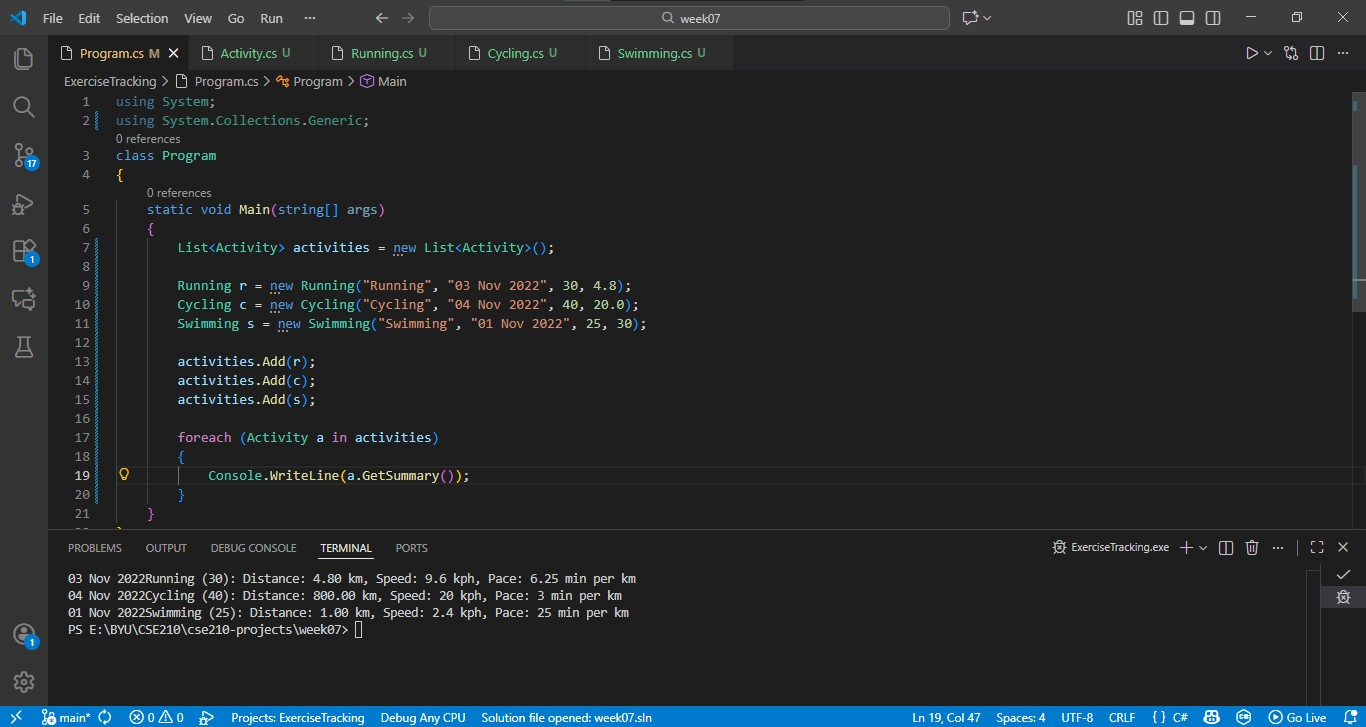
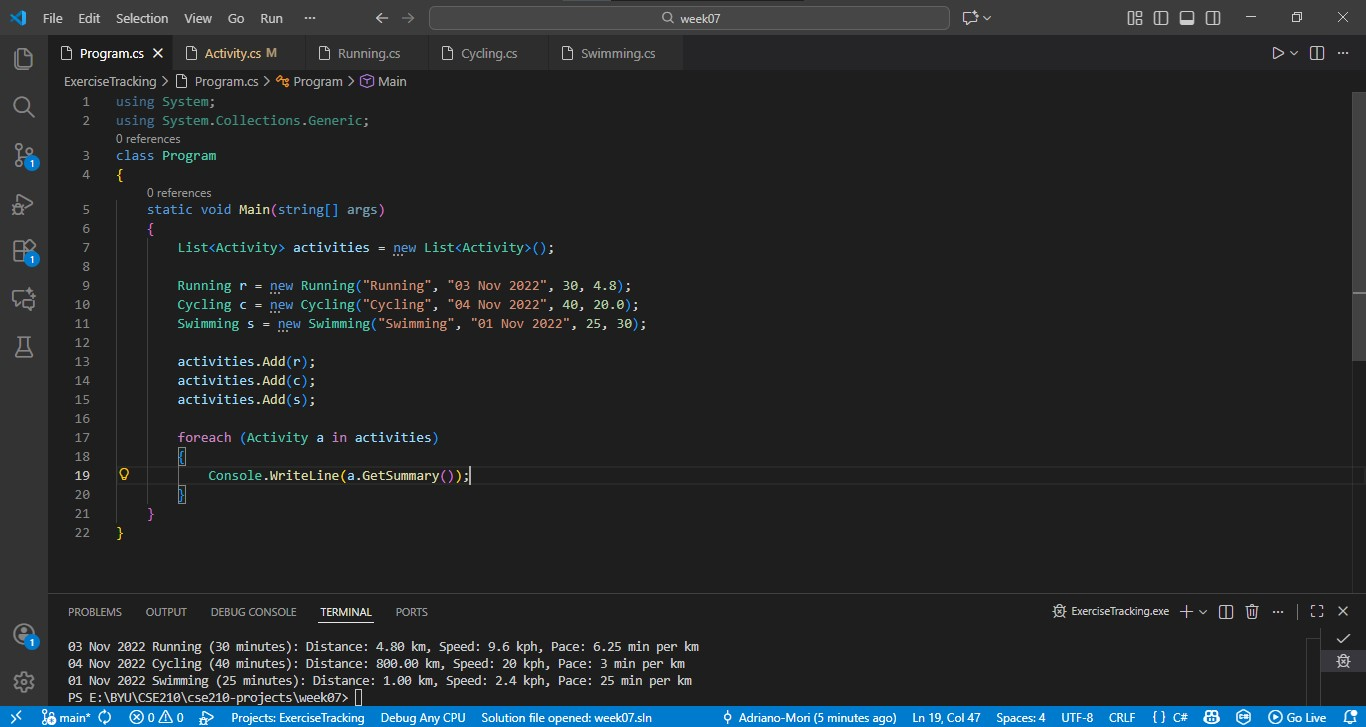
finished the ExerciseTracking Activity

diff --git a/week07/ExerciseTracking/Activity.cs b/week07/ExerciseTracking/Activity.cs
@@ -1,6 +1,6 @@
 using System;
 using System.Runtime.CompilerServices;
-public abstract class Activity
+public class Activity
 {
     protected string _name;
     protected string _date;
@@ -20,12 +20,21 @@ public abstract class Activity
     {
         return _minutes;
     }
-    public abstract double GetDistance();
-    public abstract double GetSpeed();
-    public abstract double GetPace();
+    public virtual double GetDistance()
+    {
+        return 0;
+    }
+    public virtual double GetSpeed()
+    {
+        return 0;
+    }
+    public virtual double GetPace()
+    {
+        return 0;
+    }
     public string GetSummary()
     {
-        return $"{_date}{_name} ({_minutes}): " +
+        return $"{_date} {_name} ({_minutes} minutes): " +
          $"Distance: {GetDistance():0.00} km, " +
          $"Speed: {GetSpeed()} kph, " +
          $"Pace: {GetPace()} min per km ";
